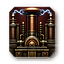
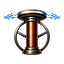
Simplify Tesla Electrical Industries emblem

diff --git a/MOD制作日志.md b/MOD制作日志.md
@@ -1,6 +1,11 @@
 # [KR] 多么幼稚的幻想，但是斯大林——制作日志与开发备忘
 
-最后更新：2026-08-17
+最后更新：2026-08-18
+
+## 2026-08-18 — 将特斯拉电气工业改为企业徽标
+
+- 根据军工机构企业列表的实际展示方式，再次使用 `gpt-image-2` 重绘“特斯拉电气工业”：删除方形边框、成排变压设备和复杂机械场景，改为单一T形特斯拉线圈、三相交流环与两道对称受控电弧构成的1930年代电气公司商标。
+- 生成图经本地色键抠图、去绿边、高质量缩放与小尺寸锐化，保留1254×1254 RGBA透明源图 `gfx/interface/ideas/RUS_tesla_electrical_industries_source.png`，游戏成品为64×64 RGBA的 `RUS_tesla_electrical_industries.png`。
 
 ## 2026-08-17 — 重绘“开设党校”图标
 
